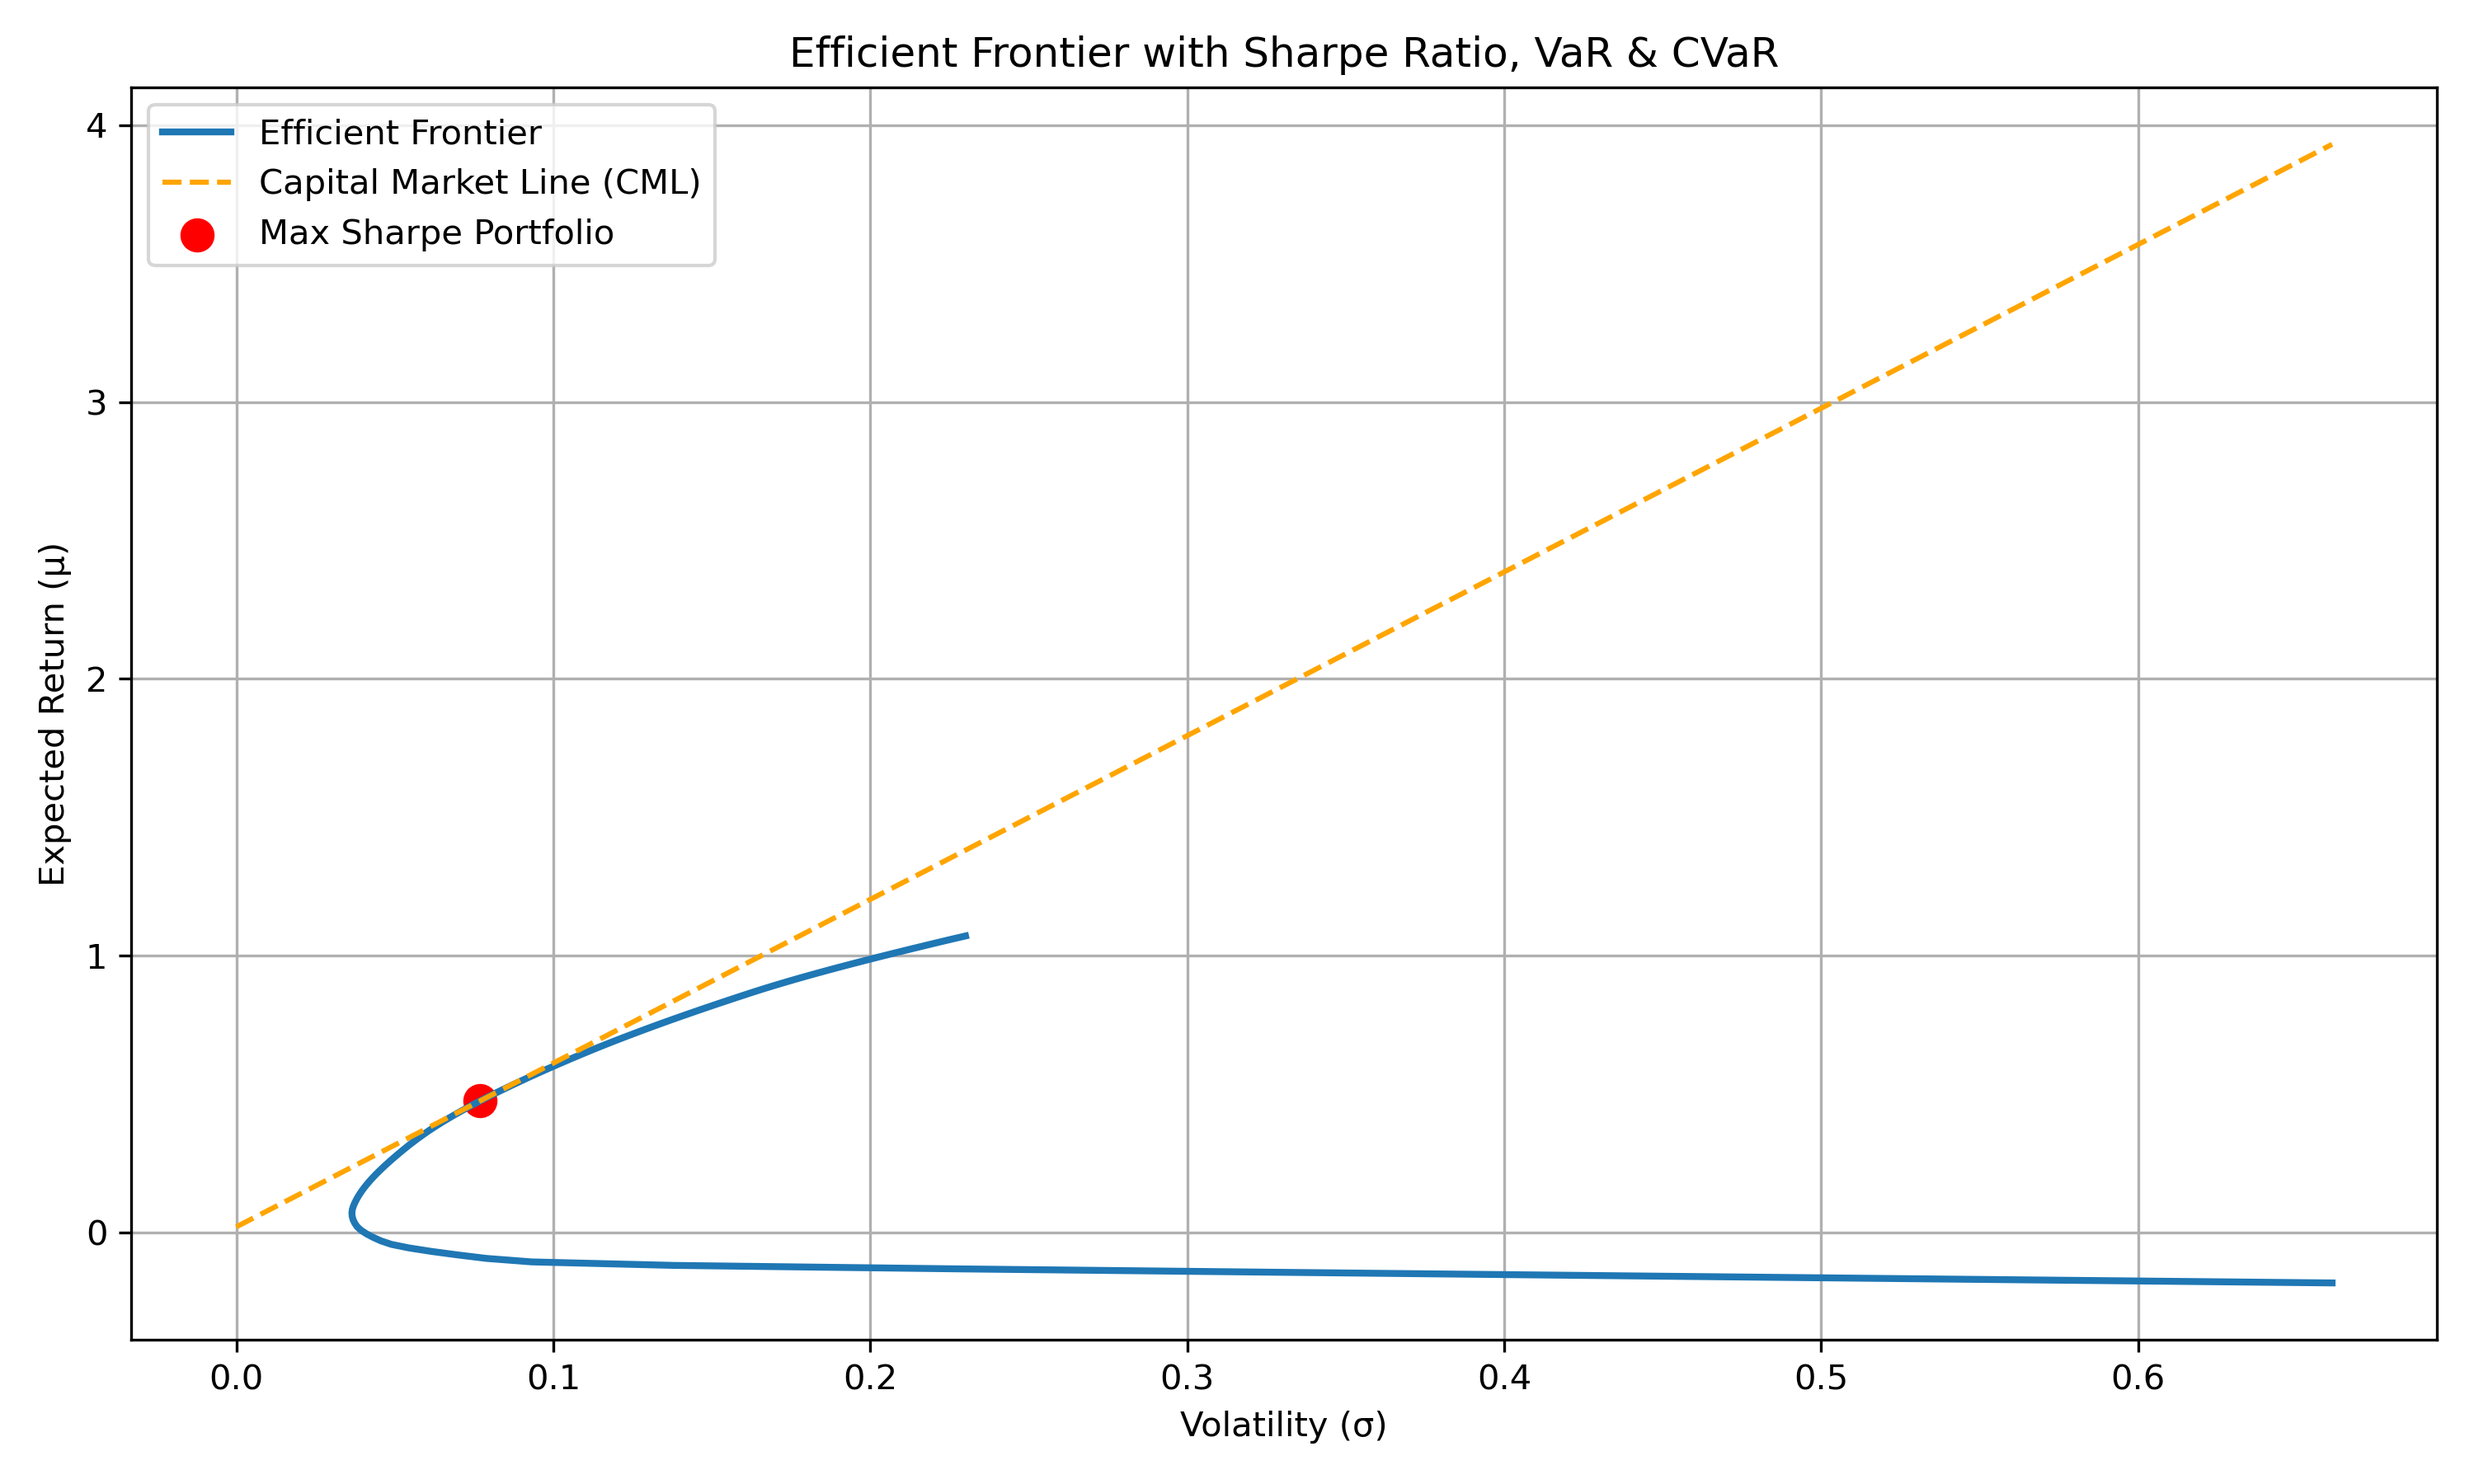
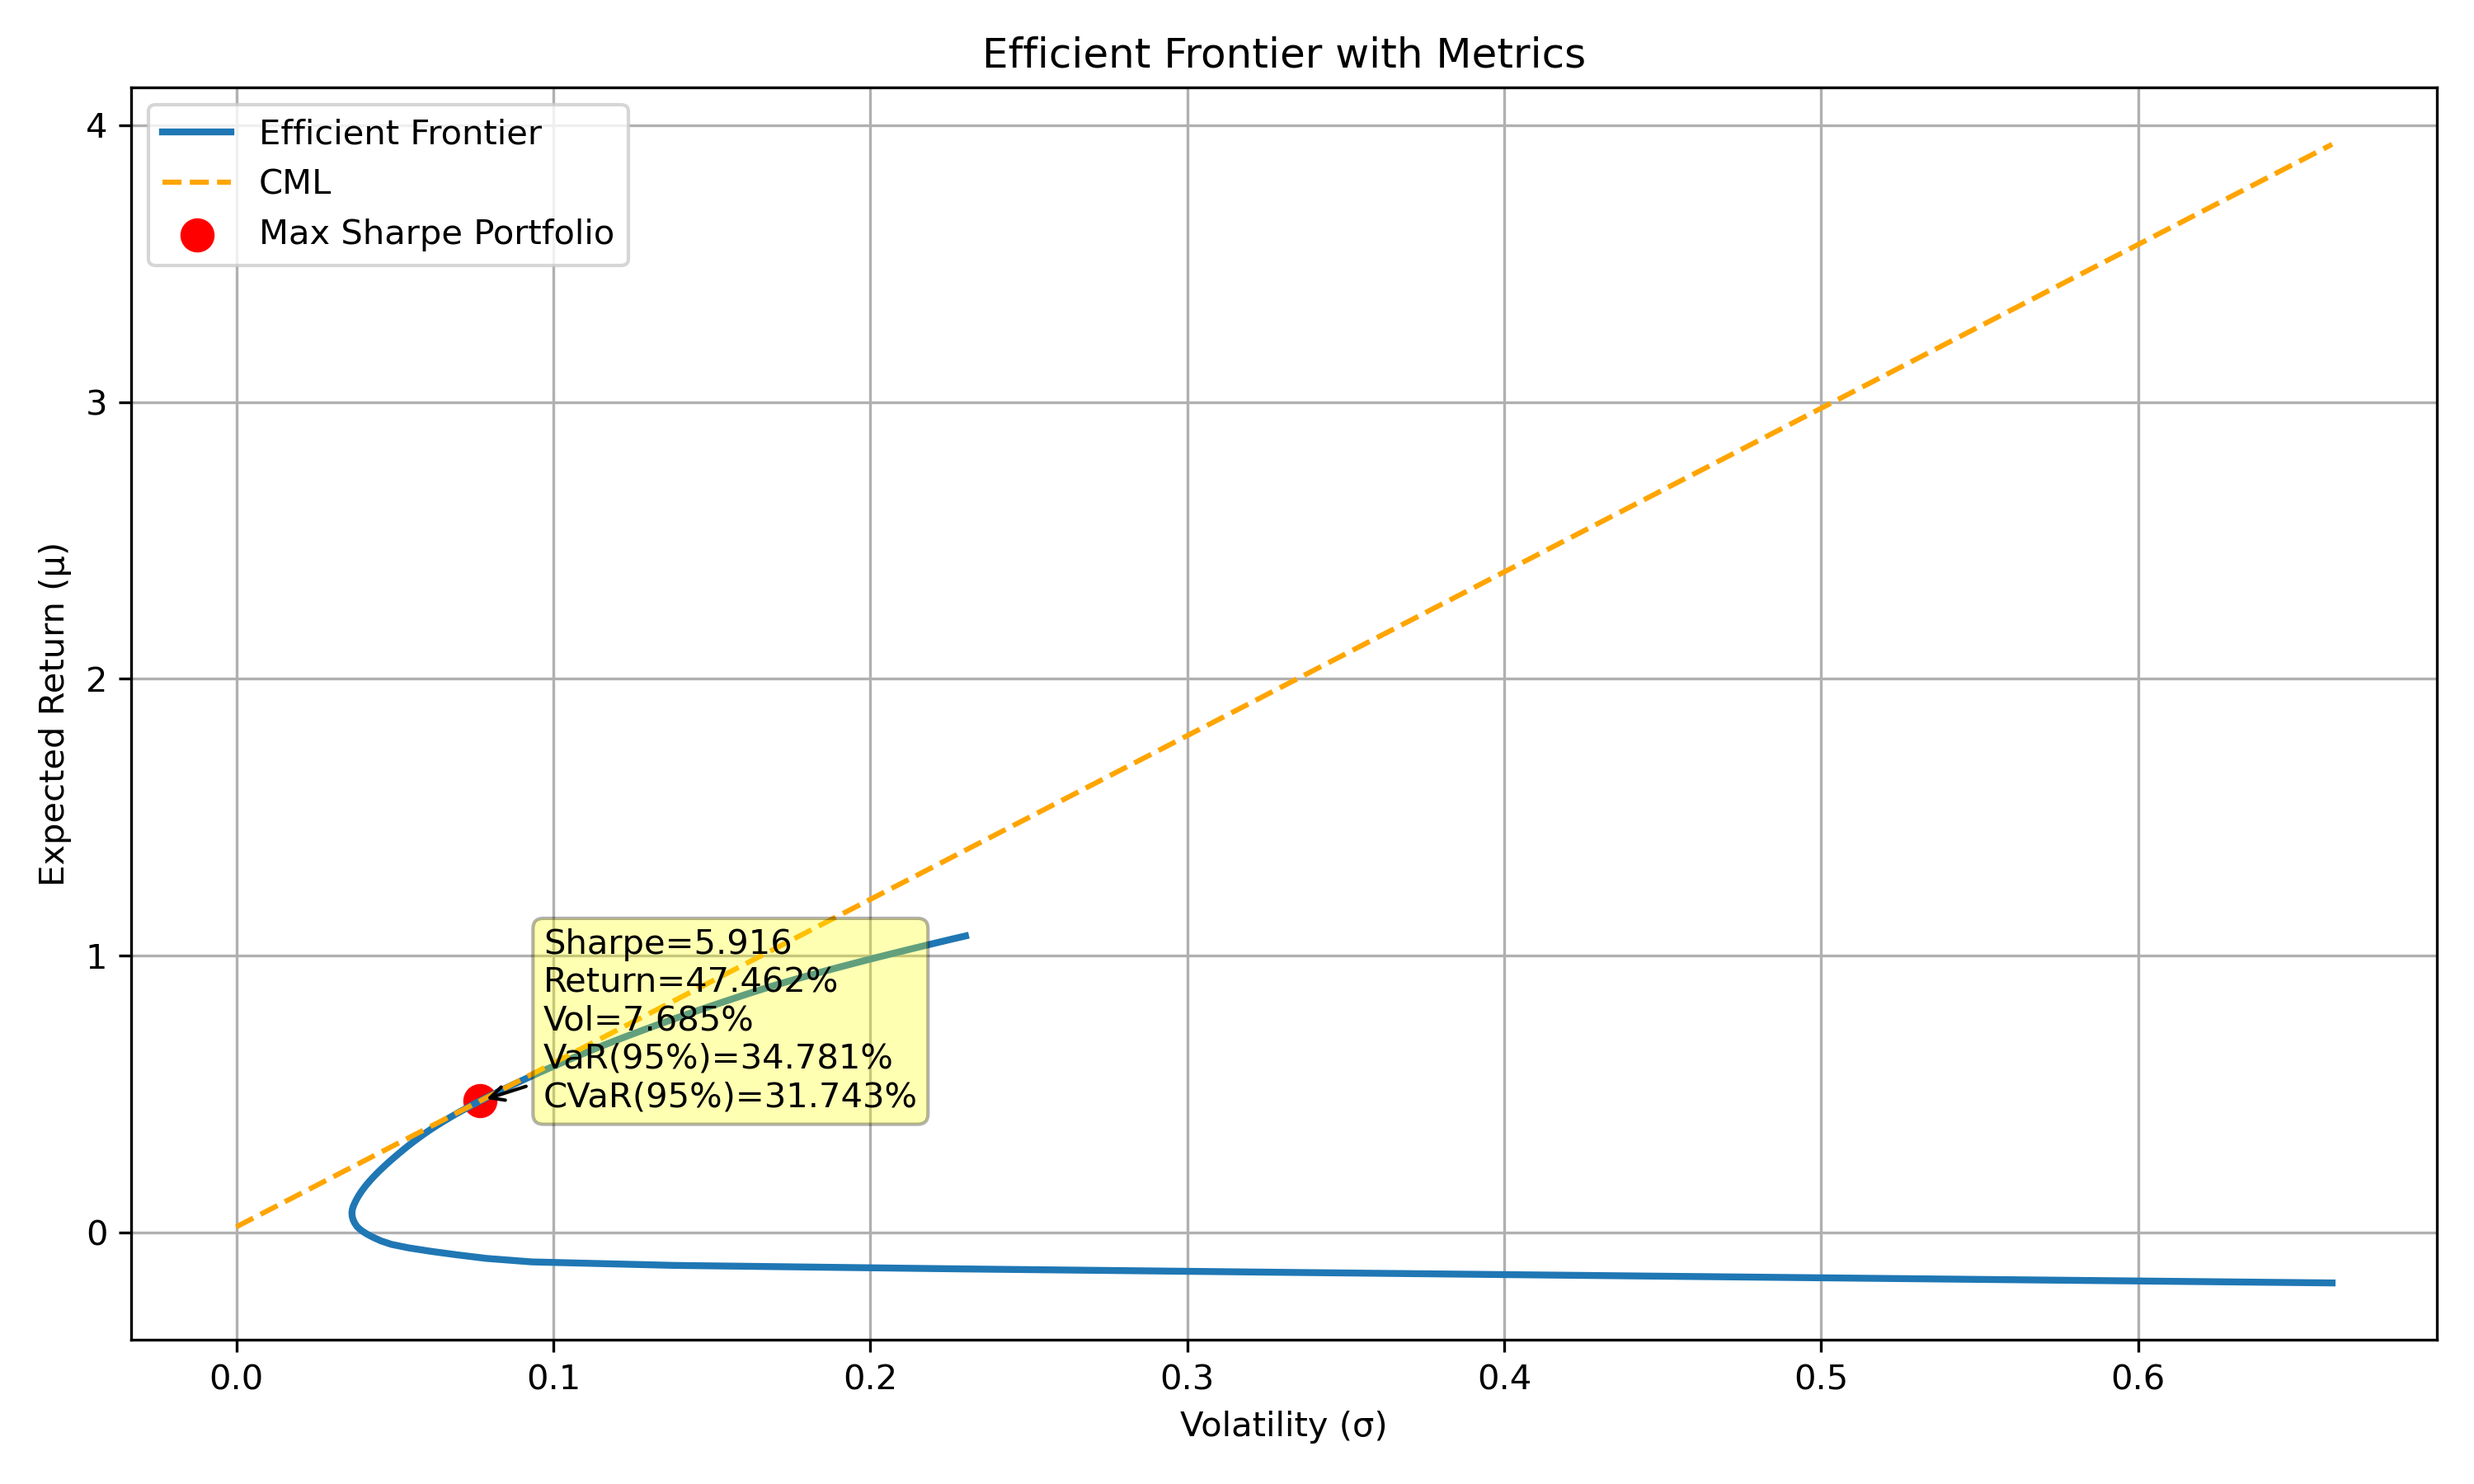
added values of Sharpe ratio, VaR, CVaR on th graph

diff --git a/portfolio/optimizer.py b/portfolio/optimizer.py
@@ -16,10 +16,8 @@ import os
 # Backend setup: auto-detect GUI availability
 # -------------------------------------------------------------------------
 try:
-    # Try GUI backend for interactive environments
     matplotlib.use("QtAgg")
 except Exception:
-    # Fallback to non-GUI backend
     matplotlib.use("Agg")
 
 
@@ -27,7 +25,11 @@ except Exception:
 # 🔧 Helper: Portfolio statistics
 # -------------------------------------------------------------------------
 def portfolio_stats(weights, mu, cov, risk_free):
-    """Compute return, volatility, and Sharpe ratio."""
+    """Compute portfolio return, volatility, and Sharpe ratio."""
+    weights = np.asarray(weights)
+    mu = np.asarray(mu)
+    cov = np.asarray(cov)
+
     port_ret = np.dot(weights, mu)
     port_vol = np.sqrt(np.dot(weights, np.dot(cov, weights)))
     sharpe = (port_ret - risk_free) / port_vol
@@ -39,15 +41,15 @@ def portfolio_stats(weights, mu, cov, risk_free):
 # -------------------------------------------------------------------------
 def max_sharpe_portfolio(mu, cov, risk_free=0.02, allow_shorts=False):
     """Optimize portfolio for maximum Sharpe ratio."""
-    mu_arr, cov_arr = np.asarray(mu), np.asarray(cov)
+    mu_arr = np.asarray(mu)
+    cov_arr = np.asarray(cov)
     n = len(mu_arr)
 
     def neg_sharpe(w):
-        ret, vol, sharpe = portfolio_stats(w, mu_arr, cov_arr, risk_free)
-        return -sharpe
+        return -portfolio_stats(w, mu_arr, cov_arr, risk_free)[2]
 
-    cons = ({'type': 'eq', 'fun': lambda w: np.sum(w) - 1},)
     bounds = [(-1, 1) if allow_shorts else (0, 1)] * n
+    cons = ({'type': 'eq', 'fun': lambda w: np.sum(w) - 1},)
     x0 = np.ones(n) / n
 
     opt = minimize(neg_sharpe, x0, bounds=bounds, constraints=cons, method='SLSQP')
@@ -60,11 +62,12 @@ def max_sharpe_portfolio(mu, cov, risk_free=0.02, allow_shorts=False):
 
 
 # -------------------------------------------------------------------------
-# 2⃣ Efficient Frontier Computation
+# 2⃣ Efficient Frontier
 # -------------------------------------------------------------------------
 def compute_efficient_frontier(mu, cov, risk_free=0.02, allow_shorts=False, num_points=100):
-    """Compute efficient frontier + VaR / CVaR under normal assumptions."""
-    mu_arr, cov_arr = np.asarray(mu), np.asarray(cov)
+    """Compute efficient frontier + VaR/CVaR (normal assumption)."""
+    mu_arr = np.asarray(mu)
+    cov_arr = np.asarray(cov)
     n = len(mu_arr)
     target_returns = np.linspace(mu_arr.min(), mu_arr.max(), num_points)
     results = []
@@ -77,69 +80,74 @@ def compute_efficient_frontier(mu, cov, risk_free=0.02, allow_shorts=False, num_
             {'type': 'eq', 'fun': lambda w: np.sum(w) - 1},
             {'type': 'eq', 'fun': lambda w: np.dot(w, mu_arr) - target_ret},
         )
-
-        opt = minimize(
-            lambda w: np.sqrt(np.dot(w, np.dot(cov_arr, w))),
-            x0, bounds=bounds, constraints=cons, method='SLSQP'
-        )
+        opt = minimize(lambda w: np.sqrt(np.dot(w, np.dot(cov_arr, w))),
+                       x0, bounds=bounds, constraints=cons, method='SLSQP')
         if not opt.success:
             continue
 
         w = opt.x
         port_ret, port_vol, sharpe = portfolio_stats(w, mu_arr, cov_arr, risk_free)
-
-        # VaR and CVaR (95% confidence, assuming normality)
-        z = 1.65
+        z = 1.65  # 95% confidence
         VaR = port_ret - z * port_vol
         CVaR = port_ret - (port_vol * (np.exp(-z**2 / 2) / (np.sqrt(2 * np.pi) * 0.05)))
-
         results.append((port_ret, port_vol, sharpe, VaR, CVaR))
 
     return pd.DataFrame(results, columns=["Return", "Volatility", "Sharpe", "VaR", "CVaR"])
 
 
 # -------------------------------------------------------------------------
-# 3⃣ Plot Efficient Frontier
+# 3⃣ Plot Efficient Frontier with Metrics
 # -------------------------------------------------------------------------
-def plot_efficient_frontier(mu, cov, risk_free=0.02, allow_shorts=False, num_points=100, save_path="efficient_frontier.png"):
-    """Plot efficient frontier, CML, and max Sharpe portfolio."""
-    logging.info("Computing efficient frontier...")
+def plot_efficient_frontier(mu, cov, risk_free=0.02, allow_shorts=False,
+                            num_points=100, save_path="efficient_frontier.png"):
+    """Plot efficient frontier, CML, max Sharpe portfolio, and key metrics."""
     df = compute_efficient_frontier(mu, cov, risk_free, allow_shorts, num_points)
     if df.empty:
-        logging.error("No valid optimization points found. Frontier is empty.")
+        logging.error("No valid optimization points found.")
         return None
 
-    # Max Sharpe portfolio + CML
+    # Max Sharpe Portfolio
     _, ms_ret, ms_vol, ms_sharpe = max_sharpe_portfolio(mu, cov, risk_free, allow_shorts)
+    z = 1.65
+    ms_VaR = ms_ret - z * ms_vol
+    ms_CVaR = ms_ret - (ms_vol * (np.exp(-z**2 / 2) / (np.sqrt(2 * np.pi) * 0.05)))
+
+    # Capital Market Line
     cml_x = np.linspace(0, df["Volatility"].max(), 100)
     cml_y = risk_free + ms_sharpe * cml_x
 
     # --- Plot ---
     fig, ax = plt.subplots(figsize=(10, 6))
-    ax.plot(df["Volatility"], df["Return"], label="Efficient Frontier", lw=2)
-    ax.plot(cml_x, cml_y, '--', label="Capital Market Line (CML)", color="orange")
-    ax.scatter(ms_vol, ms_ret, c='red', s=80, label="Max Sharpe Portfolio")
+    ax.plot(df["Volatility"], df["Return"], lw=2, label="Efficient Frontier")
+    ax.plot(cml_x, cml_y, '--', color="orange", label="CML")
+    ax.scatter(ms_vol, ms_ret, color='red', s=80, label="Max Sharpe Portfolio")
 
-    ax.set(title="Efficient Frontier with Sharpe Ratio, VaR & CVaR",
+    # Annotate metrics for Max Sharpe
+    metrics_text = (f"Sharpe={ms_sharpe:.3f}\n"
+                    f"Return={ms_ret:.3%}\n"
+                    f"Vol={ms_vol:.3%}\n"
+                    f"VaR(95%)={ms_VaR:.3%}\n"
+                    f"CVaR(95%)={ms_CVaR:.3%}")
+    ax.annotate(metrics_text, xy=(ms_vol, ms_ret),
+                xytext=(ms_vol + 0.02, ms_ret - 0.02),
+                bbox=dict(boxstyle="round,pad=0.3", fc="yellow", alpha=0.3),
+                arrowprops=dict(arrowstyle="->", color="black"))
+
+    ax.set(title="Efficient Frontier with Metrics",
            xlabel="Volatility (σ)",
            ylabel="Expected Return (μ)")
-    ax.legend()
     ax.grid(True)
+    ax.legend()
     fig.tight_layout()
 
-    # Save before showing
     fig.savefig(save_path, dpi=300)
-    logging.info(f"Efficient frontier plot saved as '{os.path.abspath(save_path)}'")
+    logging.info(f"Plot saved: {os.path.abspath(save_path)}")
 
     try:
         plt.show(block=True)
     except Exception as e:
-        logging.warning("Could not display plot window: %s", e)
-
+        logging.warning("Plot display failed: %s", e)
     plt.close(fig)
 
-    # --- Summary ---
-    logging.info(f"Max Sharpe: Sharpe={ms_sharpe:.3f} | Return={ms_ret:.3%} | Vol={ms_vol:.3%}")
-    logging.info(f"VaR(95%%): {df['VaR'].iloc[-1]:.3f} | CVaR(95%%): {df['CVaR'].iloc[-1]:.3f}")
-
+    logging.info(f"Max Sharpe Metrics: {metrics_text.replace(chr(10), ' | ')}")
     return df
